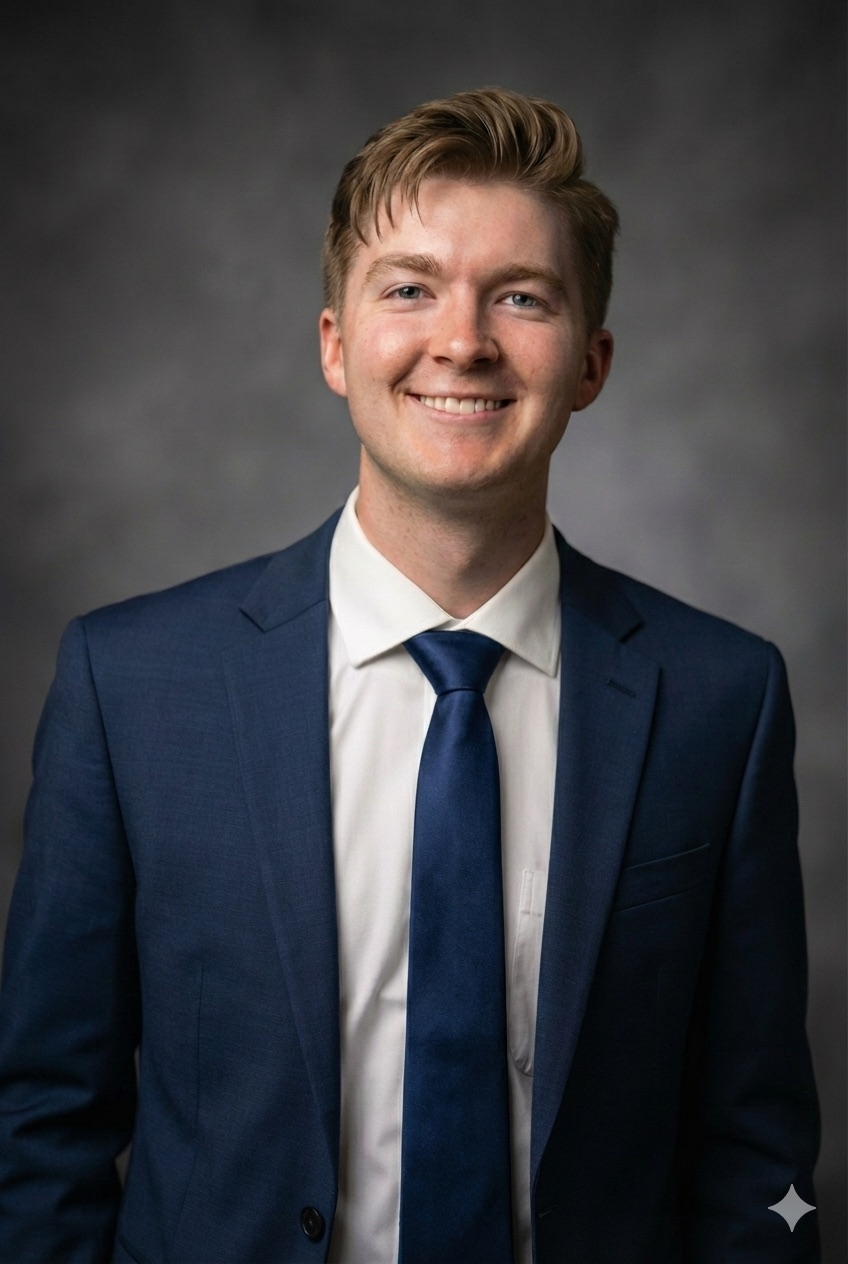
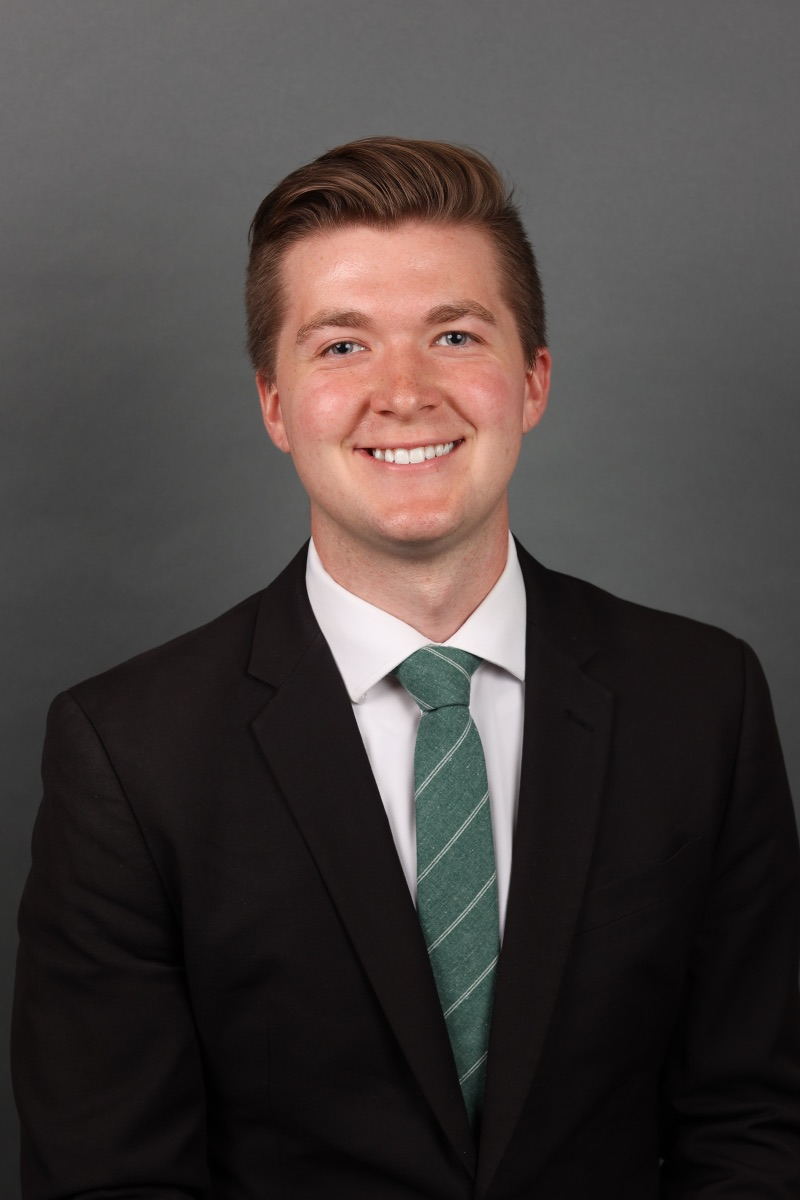
Reposition as a technology consultant; add impact to project pages
- Swap in the new studio headshot and re-center the hero crop
- Lead with value rather than "building toward cybersecurity": new role,
  tagline, About intro, meta description, and README
- Rename "The call I'd defend" callouts to "What I did" and add an Impact
  block (outcome sentence + counts from the write-up) to SOLVD sections
  and standalone project pages
- Mark AWS Cloud Practitioner earned; retarget Security+ to early 2027 and
  list earned certifications first

diff --git a/src/data/projects.js b/src/data/projects.js
@@ -48,6 +48,15 @@ export const projects = [
         ],
         summary:
           'An enterprise software client needed a new AI product line to be quotable on its own rather than bolted onto an existing product. Eleven weeks, three user stories, thirty-seven subtasks, and a production deployment across 29 quote templates.',
+        impact: {
+          text: 'The client’s sales team can now sell the new AI product line on its own — a deal that previously couldn’t be quoted at all — and it reached production with a backstop that keeps it off accounts that aren’t entitled to it.',
+          stats: [
+            { value: '29', label: 'quote templates shipped to production' },
+            { value: '7', label: 'blocking developer questions resolved' },
+            { value: '8', label: 'post-UAT defects triaged' },
+            { value: '2', label: 'descoped builds caught before release' },
+          ],
+        },
         body: [
           'The client’s sales team could only quote the new product line on top of an existing platform product. A customer who wanted just the new line couldn’t be quoted at all. Removing that dependency wasn’t one change — it touched product configuration, pricing, quote documents, approval rules, and a downstream billing integration. The hard part wasn’t building anything. It was working out what the system needed to stop requiring, and proving that loosening those requirements wouldn’t let a bad quote through.',
         ],
@@ -62,8 +71,8 @@ export const projects = [
           'Approving the production deployment across 29 quote templates',
         ],
         takeaway: {
-          label: 'The call I’d defend',
-          text: 'The requirement everyone wanted to remove was also a safety net. I pushed for a quote-level validation rule as a backstop so that even with the prerequisites relaxed, the new products couldn’t land on an account that wasn’t entitled to them. Slightly more to maintain, and it means the loosening can’t be exploited by accident.',
+          label: 'What I did',
+          text: 'The requirement everyone wanted to remove was also a safety net, so I pushed for a quote-level validation rule as a backstop so that even with the prerequisites relaxed, the new products couldn’t land on an account that wasn’t entitled to them. Slightly more to maintain, and it means the loosening can’t be exploited by accident.',
         },
       },
       {
@@ -80,6 +89,14 @@ export const projects = [
         ],
         summary:
           'Approved exceptions were deadlocking quotes — a validation rule would block the save even after the business had signed off on the exception. The fix had to unblock the rule without unblocking everyone.',
+        impact: {
+          text: 'Approved exceptions stopped deadlocking quotes, and sales operations got a way to clear one specific rule without switching off every other guardrail — visible only to the one team that should have it.',
+          stats: [
+            { value: '4', label: 'rules, each with its own scoped bypass' },
+            { value: '1', label: 'profile with access — verified as the real user' },
+            { value: '1', label: 'missed blocking rule caught before release' },
+          ],
+        },
         body: [
           'In Salesforce CPQ, a rule that requires Product B whenever Product A is on the quote is doing exactly its job — right up until someone approves an exception. Then the quote can’t be saved at all, and the rule that was protecting data integrity is just in the way. The obvious fix is a global admin override, which would have worked and would have been a bad idea: one switch that turns off every guardrail at once, available to whoever holds it.',
         ],
@@ -93,8 +110,8 @@ export const projects = [
           'Finding an adjacent validation rule the spec had missed that still blocked the save, and escalating it before release',
         ],
         takeaway: {
-          label: 'The call I’d defend',
-          text: 'One picklist value per rule instead of a single global bypass. It’s more configuration to maintain and more for a user to understand, and it buys something worth the cost — an override can never do more than the person who requested it intended.',
+          label: 'What I did',
+          text: 'Chose one picklist value per rule over a single global bypass. It’s more configuration to maintain and more for a user to understand, and it buys something worth the cost — an override can never do more than the person who requested it intended.',
         },
       },
       {
@@ -110,6 +127,13 @@ export const projects = [
         ],
         summary:
           'Requirements arrived as hour-long calls; developers needed build-ready specs. I built a workflow that converts one into the other and keeps the judgment calls human.',
+        impact: {
+          text: 'Developers built from a spec that reflected the latest decision rather than last week’s, instead of waiting while someone re-read hours of call recordings — and nothing AI-generated reached them without my review.',
+          stats: [
+            { value: '37', label: 'subtasks built from my design' },
+            { value: '3', label: 'user stories traced to it' },
+          ],
+        },
         body: [
           'On a fast-moving release, decisions get made on a call and then revised on the next one. Reading back through transcripts to work out what’s still true is slow — and it’s the kind of slow that makes a whole project late, because developers sit blocked while someone reconstructs the current state of the requirements. I used Claude against the meeting transcripts to extract what had actually changed, then wrote the design myself from that.',
         ],
@@ -121,7 +145,7 @@ export const projects = [
           'Reviewing and correcting AI output before it reached anyone else, and treating peer review of my own draft as part of the process — two of my field-design decisions were corrected in review, which is what review is for',
         ],
         takeaway: {
-          label: 'The distinction that matters',
+          label: 'What I did',
           text: 'AI drafted, I decided. Nothing it produced reached a developer without going through me, and I own what shipped. I hold Anthropic’s Claude Certified Architect credential, and the reason I think that’s worth something is not that it means I can prompt well — it’s that using these tools on real client work requires knowing where their output stops being trustworthy.',
         },
       },
@@ -137,6 +161,13 @@ export const projects = [
     context: 'BYU Department of Physics and Astronomy — IT Computer Support Specialist',
     summary:
       'Automated Active Directory cleanup and built the documentation that keeps the same question from getting asked twice.',
+    impact: {
+      text: 'Inactive accounts and unmanaged devices came out of the department directory — fewer doors left open — and recurring questions now have a documented answer that new student employees onboard from. The knowledge base was an initiative I led.',
+      stats: [
+        { value: '100+', label: 'students and faculty supported' },
+        { value: '3', label: 'identity and device platforms — AD, Intune, Jamf' },
+      ],
+    },
     image: null,
     icon: 'shield',
     tags: [
@@ -167,6 +198,12 @@ export const projects = [
     context: 'BYU Department of Physics and Astronomy — Brightspot CMS',
     summary:
       'Built and maintained pages for two live BYU department sites: the Royden G. Derrick Planetarium and the Physics & Astronomy Tech Office.',
+    impact: {
+      text: 'Public visitors can find a show, book a group, and get directions — and department users can answer their own IT questions — without emailing or calling someone first.',
+      stats: [
+        { value: '2', label: 'live BYU department sites I build and maintain' },
+      ],
+    },
     image: '/images/projects/planetarium.jpg',
     gallery: [
       {
@@ -204,6 +241,13 @@ export const projects = [
     context: 'Self-directed — third-party vendor risk assessment',
     summary:
       'Helps security and compliance teams evaluate third-party vendor risk in minutes instead of weeks: answer 14 questions, get an AI-generated risk report.',
+    impact: {
+      text: 'Built on my own time to close a real gap: vendor reviews that get skipped because they’re slow. It’s live today — anyone can run an assessment and get a report without installing anything.',
+      stats: [
+        { value: '14', label: 'questions to a full risk report' },
+        { value: 'Live', label: 'public demo, deployed and usable' },
+      ],
+    },
     image: '/images/projects/risk-assessment.jpg',
     icon: 'shield',
     tags: ['Vendor Risk', 'Compliance', 'React', 'Google Gemini API', 'Vite'],
@@ -238,6 +282,13 @@ export const projects = [
     context: 'Self-directed — TypeScript',
     summary:
       'A local-first budgeting app with a rules engine that files transactions into buckets automatically, so categorizing a month of spending stops being manual work.',
+    impact: {
+      text: 'Categorizing a month of spending goes from a manual chore to rules that run on their own — without handing bank credentials to a hosted service.',
+      stats: [
+        { value: '0', label: 'credentials held by a hosted server' },
+        { value: '2', label: 'live bank integrations — Plaid and Teller' },
+      ],
+    },
     image: '/images/projects/bucketeer-dashboard.jpg',
     gallery: [
       {
@@ -287,6 +338,13 @@ export const projects = [
     context: 'Self-directed — built for a real user',
     summary:
       'Searches eight stores at once by size and actual measurements, so my wife can stop opening a tab per retailer.',
+    impact: {
+      text: 'One search replaces eight browser tabs, and every decision was shaped by the person who actually uses it.',
+      stats: [
+        { value: '8', label: 'retailers in a single search' },
+        { value: '1', label: 'real user giving feedback within a day' },
+      ],
+    },
     image: '/images/projects/clothing-search.jpg',
     icon: 'search',
     tags: ['JavaScript', 'Search', 'UX'],

diff --git a/src/data/profile.js b/src/data/profile.js
@@ -1,17 +1,13 @@
 export const profile = {
   name: 'Reece Bunnage',
-  role: 'Automation & Business Systems Consultant',
-  // The role is the job I hold; the direction is the one I'm moving toward.
-  // Kept as separate fields so the hero can render it as a subordinate line
-  // rather than overstating the title.
-  direction: 'building toward cybersecurity consulting',
+  role: 'Technology Consultant',
   location: 'Utah',
   tagline:
-    'I build automation and business systems that take manual work off of the people who do the work — and I sit with those people to figure out what to automate in the first place.',
+    "I make the systems people depend on actually work for them — automating the manual work, designing around how teams really operate, and making sure it's secure enough to trust.",
   intro: [
     "I'm an Information Systems student at BYU's Marriott School of Business, minoring in Cybersecurity and Computer Science, and an automation consultant at SOLVD.cloud.",
     "Most of what I do comes down to the same pattern: find the step where a team is doing something by hand, understand why it works that way, and rebuild it so the system does it instead. At SOLVD that looks like requirements, solution design, and QA on a Salesforce CPQ implementation for an enterprise client. At BYU's Department of Physics and Astronomy it has looked like identity and endpoint administration across Active Directory, Intune, and Jamf, an access review that pulled inactive accounts and unmanaged devices out of the directory, and a knowledge base that keeps the same question from getting asked twice.",
-    "The direction I'm building toward is the security side of business systems — identity and access, third-party risk, and the controls that decide who is allowed to do what. It's the same translation problem as automation work: what a team needs, against what a system can actually be made to enforce. I'm working toward CompTIA Security+, and applying to BYU's five-year integrated MISM program, since its emphasis on leadership and project management is the half of security consulting that technical coursework doesn't cover.",
+    "What ties it together is that a system is only worth building if people can rely on it — which means it has to fit how they actually work, and it has to be secure. That's why identity, access, and controls run through all of it: they decide who is allowed to do what, and they're usually where a well-built system quietly breaks. I'm working toward CompTIA Security+, and applying to BYU's five-year integrated MISM program for the leadership and project management half of consulting that technical coursework doesn't cover.",
   ],
   email: 'rjbunnage@gmail.com',
   linkedin: 'https://www.linkedin.com/in/reece-bunnage/',
@@ -38,23 +34,22 @@ export const education = {
   details: ['GPA 4.00 / 4.00', 'BYU Academic Scholarship'],
 }
 
-// Rendered on /credentials. Kept in resume order — Security+ leads because it
-// is the direction, and the `status` badge does the work of being honest about
-// what is earned versus in progress.
+// Rendered on /credentials. Earned first, newest first; in-progress last, with
+// the `status` badge doing the work of being honest about which is which.
 export const certifications = [
-  {
-    name: 'CompTIA Security+',
-    issuer: 'CompTIA',
-    status: 'In progress',
-    date: 'Target November 2026',
-    what: 'The baseline credential for security work — threat types, secure architecture, risk management, and the controls that mitigate them.',
-  },
   {
     name: 'Claude Certified Architect',
     issuer: 'Anthropic',
     status: 'Earned',
     date: '2026',
     what: "Designing and deploying systems built on Claude. What it's worth on client work isn't that I can prompt well — it's knowing where a model's output stops being trustworthy.",
+  },
+  {
+    name: 'AWS Certified Cloud Practitioner',
+    issuer: 'Amazon Web Services',
+    status: 'Earned',
+    date: '2026',
+    what: 'Cloud fundamentals, including the shared responsibility model and IAM.',
   },
   {
     name: 'Salesforce Certified Platform Administrator',
@@ -64,11 +59,11 @@ export const certifications = [
     what: 'Platform configuration and the security model — profiles, permission sets, and record-level sharing. The access-design half of it is what I use most.',
   },
   {
-    name: 'AWS Certified Cloud Practitioner',
-    issuer: 'Amazon Web Services',
+    name: 'CompTIA Security+',
+    issuer: 'CompTIA',
     status: 'In progress',
-    date: 'Target December 2026',
-    what: 'Cloud fundamentals, including the shared responsibility model and IAM.',
+    date: 'Target early 2027',
+    what: 'The baseline credential for security work — threat types, secure architecture, risk management, and the controls that mitigate them.',
   },
 ]
 

diff --git a/src/pages/ProjectDetail.jsx b/src/pages/ProjectDetail.jsx
@@ -24,8 +24,32 @@ function Bullets({ items }) {
   )
 }
 
+// The outcome up front, for someone skimming: one sentence on what changed
+// and for whom, then the counts that back it. Only numbers from the write-up
+// itself go in `stats` — no estimated savings.
+function Impact({ impact }) {
+  return (
+    <div className="mt-6 rounded-xl bg-cream p-5 sm:p-6">
+      <p className="font-head text-xs font-bold uppercase tracking-[0.2em] text-ground">
+        Impact
+      </p>
+      <p className="mt-2 text-lg leading-relaxed text-ink">{impact.text}</p>
+      {impact.stats?.length > 0 && (
+        <ul className="mt-5 grid grid-cols-2 gap-4 sm:grid-cols-4">
+          {impact.stats.map((stat) => (
+            <li key={stat.label} className="border-l-2 border-steel pl-3">
+              <p className="font-head text-3xl font-bold text-ground">{stat.value}</p>
+              <p className="mt-1 text-sm leading-snug text-smoke-mid">{stat.label}</p>
+            </li>
+          ))}
+        </ul>
+      )}
+    </div>
+  )
+}
+
 // The highlighted closing statement — an `outcome` string, or a `takeaway`
-// whose label names the kind of call being made ("The call I'd defend").
+// with a label ("What I did").
 function Callout({ label, children }) {
   return (
     <p
@@ -64,6 +88,8 @@ function ProjectSection({ section, index }) {
         <p className="mt-6 border-l-2 border-steel pl-4 text-lg leading-relaxed text-ink">
           {section.summary}
         </p>
+
+        {section.impact && <Impact impact={section.impact} />}
 
         <div className="prose-body mt-6">
           {section.body.map((paragraph) => (
@@ -130,6 +156,8 @@ export default function ProjectDetail() {
                 }`}
               />
             )}
+
+            {project.impact && <Impact impact={project.impact} />}
 
             <div className="prose-body mt-8">
               {project.body.map((paragraph) => (

diff --git a/src/components/Hero.jsx b/src/components/Hero.jsx
@@ -8,9 +8,9 @@ function Portrait() {
   const [failed, setFailed] = useState(false)
 
   const frame =
-    // object-top: the source is a 2:3 headshot, so a centred square crop would
-    // cut the top of the head off.
-    'h-64 w-64 rounded-2xl object-cover object-top shadow-xl shadow-ink/25 sm:h-80 sm:w-80'
+    // object-[center_15%]: the source is a 2:3 studio headshot with headroom, so
+    // a centred square crop cuts the face and object-top leaves too much backdrop.
+    'h-64 w-64 rounded-2xl object-cover object-[center_15%] shadow-xl shadow-ink/25 sm:h-80 sm:w-80'
 
   if (failed) {
     return (
@@ -44,14 +44,6 @@ export default function Hero() {
         <p className="font-head text-sm font-bold uppercase tracking-[0.2em] text-ground">
           {profile.role}
         </p>
-        {/* The direction, not the title. Steel would read as the obvious
-            "subordinate" colour here but only clears 2.79:1 on white; smoke-mid
-            is 5.74:1 and still recedes against the ground-coloured line above. */}
-        {profile.direction && (
-          <p className="mt-1.5 font-head text-sm font-semibold text-smoke-mid">
-            &mdash; {profile.direction}
-          </p>
-        )}
         <h1 className="mt-3">{profile.name}</h1>
         <p className="mt-5 max-w-xl text-lg leading-relaxed text-smoke-dark">
           {profile.tagline}

diff --git a/index.html b/index.html
@@ -11,7 +11,7 @@
     />
     <meta
       name="description"
-      content="Reece Bunnage is an automation and business systems consultant based in Utah, studying Information Systems with minors in Cybersecurity and Computer Science at BYU."
+      content="Reece Bunnage is a technology consultant based in Utah, studying Information Systems with minors in Cybersecurity and Computer Science at BYU."
     />
     <meta name="viewport" content="width=device-width, initial-scale=1.0" />
     <title>Reece Bunnage</title>

diff --git a/src/pages/About.jsx b/src/pages/About.jsx
@@ -49,7 +49,7 @@ export default function About() {
       <Band tone="paper">
         <SectionHeading
           title="About"
-          subtitle="My background, the direction I'm building toward, and what I've worked on so far."
+          subtitle="My background, how I work, and what I've built so far."
         />
 
         <Reveal>

diff --git a/README.md b/README.md
@@ -1,8 +1,8 @@
 # reece-bunnage.github.io
 
 Personal portfolio for Reece Bunnage — Information Systems at BYU (minors in
-Cybersecurity and Computer Science), automation consultant at SOLVD.cloud,
-building toward cybersecurity consulting. Live at
+Cybersecurity and Computer Science) and technology consultant at SOLVD.cloud.
+Live at
 **https://reece-bunnage.github.io**.
 
 ## Stack
